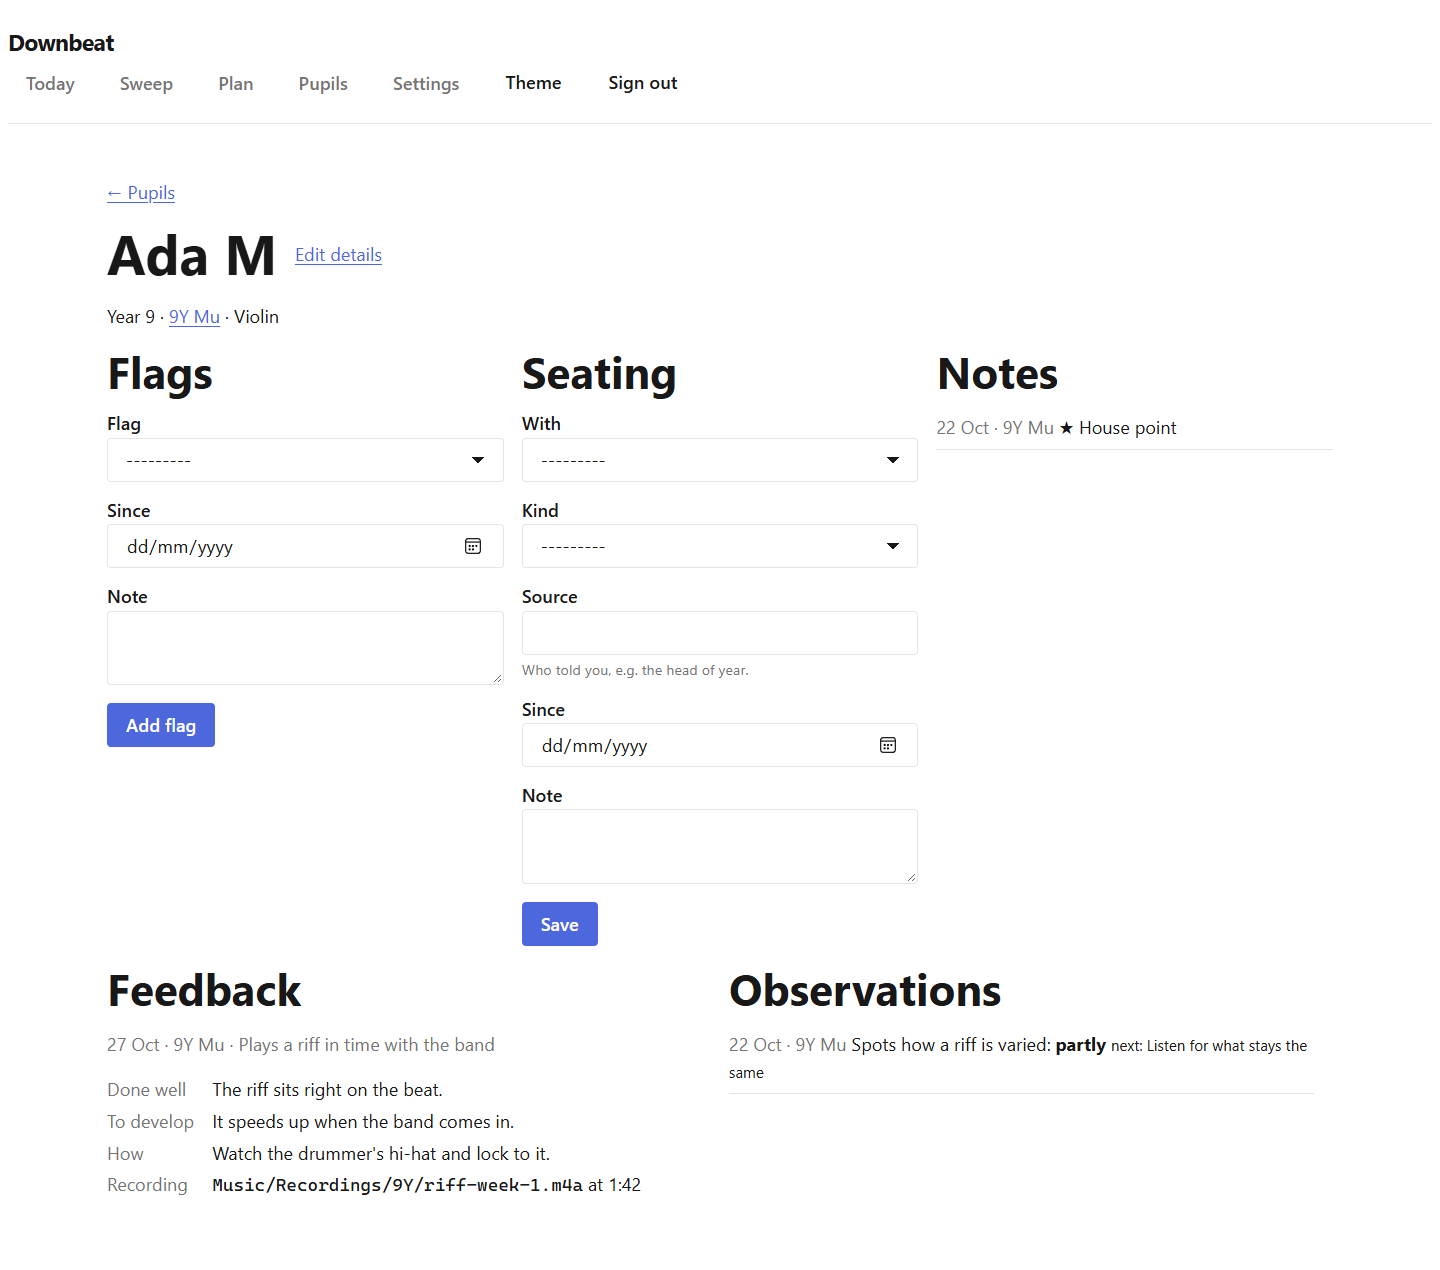
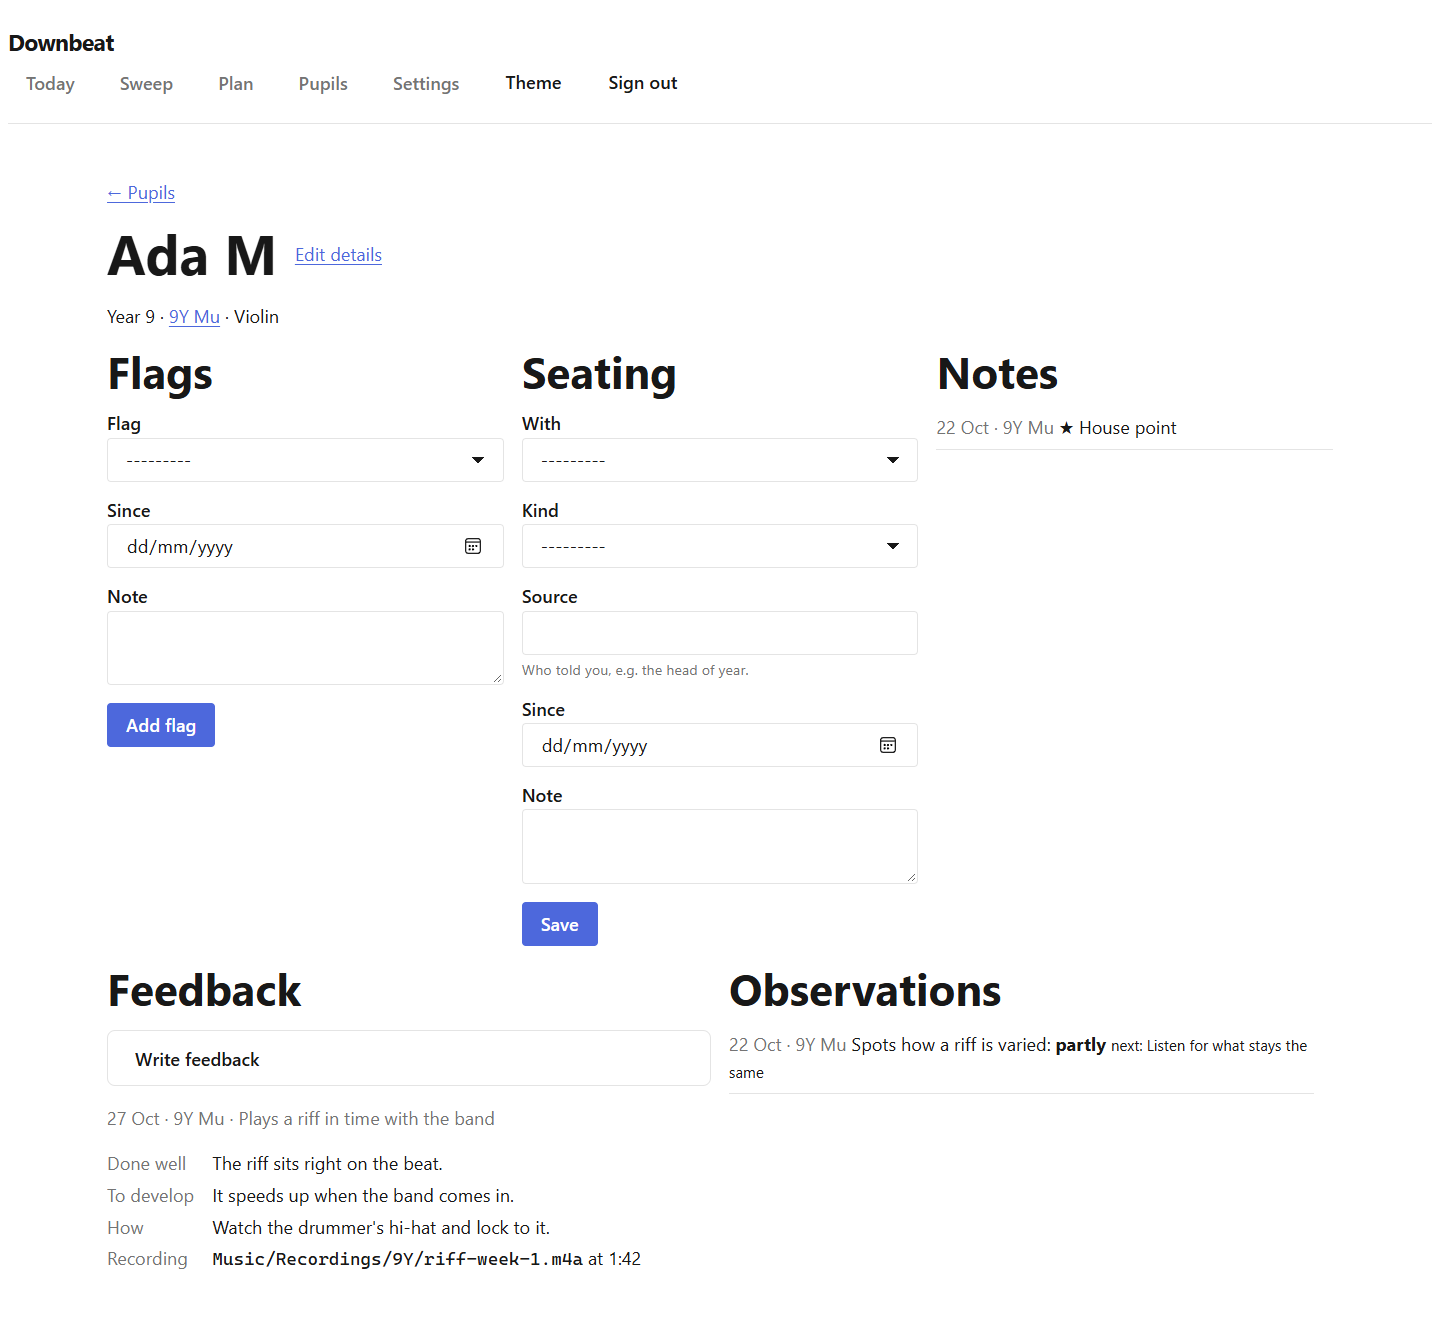
Let feedback be written whenever: from the pupil page and the room view's menu

diff --git a/templates/timetable/room_view.html b/templates/timetable/room_view.html
@@ -123,6 +123,7 @@ device's unsent captures applied on top, so it works the same with or without a 
     <div class="dropdown" data-align="end">
       <a class="dropdown__item" href="{% url 'projector' session.pk %}" target="_blank" rel="noopener">Projector view</a>
       <a class="dropdown__item" href="{% url 'cover_pdf' session.pk %}">Cover PDF</a>
+      <a class="dropdown__item" href="{% url 'session_feedback' session.pk %}">Feedback for this lesson</a>
       {% if lesson and lesson.unit.feedback_codes.exists %}<a class="dropdown__item" href="{% url 'codes_slide' lesson.unit.pk %}" target="_blank" rel="noopener">Feedback codes</a>{% endif %}
       <button type="button" class="dropdown__item" data-action="shortcuts">Keyboard shortcuts</button>
     </div>

diff --git a/templates/pupils/pupil.html b/templates/pupils/pupil.html
@@ -95,7 +95,17 @@
 
 <div class="switcher">
   <section class="flow">
-    <h2>Feedback</h2>
+    <h2 id="feedback">Feedback</h2>
+    {% if feedback_form %}
+    <details class="accordion"{% if feedback_open %} open{% endif %}>
+      <summary class="accordion__trigger">Write feedback</summary>
+      <form method="post" class="accordion__content flow">
+        {% csrf_token %}
+        {{ feedback_form }}
+        <button class="button" type="submit" name="add_feedback" data-variant="primary">Save feedback</button>
+      </form>
+    </details>
+    {% endif %}
     {% if feedback %}
     <ul class="flow" role="list">
       {% for f in feedback %}

diff --git a/assessment/forms.py b/assessment/forms.py
@@ -76,8 +76,18 @@ def parse_at(text):
     return int(minutes or 0) * 60 + int(seconds)
 
 
+class LessonChoiceField(forms.ModelChoiceField):
+    def label_from_instance(self, session):
+        return f"{session.date:%a} {session.date.day} {session.date:%b} {session.period} · {session.klass}" + (
+            f" · {session.lesson}" if session.lesson_id else "")
+
+
 class FeedbackForm(forms.Form):
-    """Feedback for one pupil or one group in a lesson. A recording only for pupils whose families agreed."""
+    """
+    Feedback for one pupil or one group, written whenever. From a lesson's page it asks who it's
+    for; from a pupil's page it asks which of their lessons it belongs to. A recording only for
+    pupils whose families agreed.
+    """
 
     who = forms.ChoiceField(label="For")
     component = forms.ModelChoiceField(queryset=None, required=False, label="Component (optional)")
@@ -89,11 +99,14 @@ class FeedbackForm(forms.Form):
     recording_at = forms.CharField(required=False, max_length=8, label="At (m:ss)",
                                    help_text="The moment the feedback is about, e.g. 1:42 for bar 9.")
 
-    def __init__(self, *args, session, **kwargs):
+    def __init__(self, *args, session=None, pupil=None, **kwargs):
         super().__init__(*args, **kwargs)
+        self.session, self.pupil = session, pupil
+        if pupil is not None:
+            self._for_pupil(pupil)
+            return
         from pupils.services import active_groups
 
-        self.session = session
         self.pupils = {str(p.pk): p for p in session.klass.pupils.all()}
         self.groups = {str(g.pk): g for g in active_groups(session.klass)}
         choices = [("", "Choose…"), ("Pupils", [(f"pupil:{pk}", str(p)) for pk, p in self.pupils.items()])]
@@ -102,11 +115,34 @@ class FeedbackForm(forms.Form):
         self.fields["who"].choices = choices
         self.fields["component"].queryset = session.lesson.unit.components.all() if session.lesson_id else Component.objects.none()
 
+    def _for_pupil(self, pupil):
+        """The pupil's lessons, newest first, the latest chosen; components from those lessons' units."""
+        from django.utils import timezone
+
+        from timetable.models import Session
+
+        lessons = (Session.objects.filter(klass__pupils=pupil, date__lte=timezone.localdate())
+                   .exclude(status=Session.CANCELLED).select_related("klass", "lesson").order_by("-date", "-period"))
+        del self.fields["who"]
+        self.fields = {"lesson": LessonChoiceField(queryset=lessons, label="Lesson", empty_label=None), **self.fields}
+        self.fields["lesson"].initial = lessons.first()
+        self.fields["component"].queryset = Component.objects.filter(unit__lessons__sessions__in=lessons).distinct()
+
     def clean(self):
         data = super().clean()
-        kind, _, pk = data.get("who", "").partition(":")
-        data["pupil"] = self.pupils.get(pk) if kind == "pupil" else None
-        data["group"] = self.groups.get(pk) if kind == "group" else None
+        if self.pupil is not None:
+            data["pupil"], data["group"] = self.pupil, None
+            lesson = data.get("lesson")
+            if lesson is None:
+                raise forms.ValidationError("Choose the lesson this feedback belongs to.")
+            self.session = lesson
+            component = data.get("component")
+            if component and (not lesson.lesson_id or component.unit_id != lesson.lesson.unit_id):
+                self.add_error("component", "Choose a component from that lesson's unit, or none.")
+        else:
+            kind, _, pk = data.get("who", "").partition(":")
+            data["pupil"] = self.pupils.get(pk) if kind == "pupil" else None
+            data["group"] = self.groups.get(pk) if kind == "group" else None
         if not any(data.get(part, "").strip() for part in ("done_well", "develop", "how")):
             raise forms.ValidationError("Write at least one of done well, to develop or how.")
         try:

diff --git a/assessment/test_feedback.py b/assessment/test_feedback.py
@@ -165,3 +165,32 @@ def test_self_and_peer_refuses_a_teacher_entry_or_a_stray_component(client, klas
     client.post(f"/pupils/class/{klass.pk}/self-peer/", {"session": lesson.pk, "component": riff.pk, "assessor": "teacher",
                                                         f"state-{pupils[0].pk}": "secure"})
     assert not Observation.objects.exists()
+
+
+# --- Written whenever ---
+
+def test_feedback_from_the_pupil_page_belongs_to_a_lesson_of_theirs(client, lesson, unit, pupils):
+    page = client.get(f"/pupils/{pupils[0].pk}/").content.decode()
+    assert "Write feedback" in page and "Mon 19 Oct P1" in page
+    riff = unit.components.get(order=0)
+    response = client.post(f"/pupils/{pupils[0].pk}/", {
+        "add_feedback": "", "feedback-lesson": lesson.pk, "feedback-component": riff.pk, "feedback-develop": "Steadier fills",
+    })
+    assert response.url == f"/pupils/{pupils[0].pk}/#feedback"
+    f = Feedback.objects.get()
+    assert (f.session, f.pupil, f.group, f.component) == (lesson, pupils[0], None, riff)
+
+
+def test_pupil_page_feedback_refuses_a_component_from_another_unit(client, lesson, pupils, klass, room):
+    other_unit = Unit.objects.create(scheme=Scheme.objects.create(name="Y7"), name="Other")
+    stray = Component.objects.create(unit=other_unit, order=0, text="Elsewhere", strand=Strand.objects.first(), next_step_default="x")
+    other = Session.objects.create(date=D, period="P2", klass=klass, room=room,
+                                   lesson=LessonPlan.objects.create(unit=other_unit, order=1, objective="Other"))
+    client.post(f"/pupils/{pupils[0].pk}/", {
+        "add_feedback": "", "feedback-lesson": lesson.pk, "feedback-component": stray.pk, "feedback-develop": "x",
+    })
+    assert not Feedback.objects.exists() and other.lesson.unit == stray.unit
+
+
+def test_the_room_menu_leads_to_the_lessons_feedback(client, lesson):
+    assert f"/sweep/{lesson.pk}/feedback/" in client.get(f"/room/{lesson.pk}/").content.decode()

diff --git a/pupils/views.py b/pupils/views.py
@@ -7,8 +7,10 @@ from django.contrib import messages
 from django.db import transaction
 from django.db.models import Count, ProtectedError, Q
 from django.shortcuts import get_object_or_404, redirect, render
+from django.urls import reverse
 from django.views.decorators.http import require_POST
 
+from assessment.forms import FeedbackForm
 from assessment.models import Feedback
 from timetable.models import Class, Pupil, SessionAttendance
 
@@ -42,6 +44,12 @@ def pupil_page(request, pk):
     pupil = get_object_or_404(Pupil, pk=pk)
     adding_flag = request.method == "POST" and "add_flag" in request.POST
     adding_relationship = request.method == "POST" and "add_relationship" in request.POST
+    adding_feedback = request.method == "POST" and "add_feedback" in request.POST
+    feedback_form = FeedbackForm(request.POST if adding_feedback else None, pupil=pupil, prefix="feedback")
+    if adding_feedback and feedback_form.is_valid():
+        feedback_form.save()
+        messages.success(request, "Feedback saved.")
+        return redirect(f"{reverse('pupil_page', args=[pupil.pk])}#feedback")
     form = PupilFlagForm(request.POST if adding_flag else None, pupil=pupil)
     relationship_form = RelationshipForm(request.POST if adding_relationship else None, pupil=pupil)
     if adding_flag and form.is_valid():
@@ -68,6 +76,8 @@ def pupil_page(request, pk):
         "relationship_form": relationship_form if relationship_form.fields["other"].queryset.exists() else None,
         "notes": notes,
         "feedback": feedback,
+        "feedback_form": feedback_form if feedback_form.fields["lesson"].queryset.exists() else None,
+        "feedback_open": adding_feedback,
         "observations": observations,
         "loans": pupil.loans.filter(returned_at__isnull=True).select_related("item"),
     })

diff --git a/docs/TESTING.md b/docs/TESTING.md
@@ -10,7 +10,7 @@ How Downbeat is tested, how to run the tests, and what each part of the suite co
 .venv\Scripts\ruff check .
 ```
 
-The suite runs in about ten seconds: 366 tests pass and 3 are skipped (see [Skipped tests](#skipped-tests)). `pytest -q path/to/file.py -k name` runs one file or test.
+The suite runs in about ten seconds: 369 tests pass and 3 are skipped (see [Skipped tests](#skipped-tests)). `pytest -q path/to/file.py -k name` runs one file or test.
 
 GitHub Actions (`.github/workflows/tests.yml`) runs on every push and pull request. It checks out Downbeat and LooseLeaf-UI side by side, then runs:
 
@@ -80,7 +80,7 @@ Conventions:
 | `plans/test_prep.py` | 6 | Prep generated from resources and actions, ticks kept, manual items |
 | `assessment/tests.py` | 9 | Strands and bands, components and codes, criteria file round trip and refusal, duplicating a unit |
 | `assessment/test_observations.py` | 7 | Observations through sync, rule 4 in sync and in the database, backwards states, sweep bin |
-| `assessment/test_feedback.py` | 14 | Feedback for a pupil or a group, its three parts, recordings only with permission (every member for a group), the m:ss moment, codes as a slide with no pupil in it, the class-by-component view (latest state, by assessor, nothing added up), self and peer in one go with the next step attached |
+| `assessment/test_feedback.py` | 17 | Feedback for a pupil or a group, written from a lesson or a pupil's page, its three parts, recordings only with permission (every member for a group), the m:ss moment, codes as a slide with no pupil in it, the class-by-component view (latest state, by assessor, nothing added up), self and peer in one go with the next step attached |
 | `assessment/test_checks.py` | 18 | Hinge checks: misconception-tagged wrong answers, the bank and duplication, planned-or-asked constraint, decisions through sync (minutes in, idempotent, last write wins, two devices, taking back), the greyed button, the sweep's judgement, pupils' answers opt-in and only with a decision (rule 3) |
 
 ## Traceability to the "Done when" tests

diff --git a/docs/DEVLOG.md b/docs/DEVLOG.md
@@ -116,6 +116,8 @@ Each step ends with ruff and the full test suite passing locally and in CI, and 
 
 **5.4 checked.** The screenshot tool loaded every new page in Edge on the demo school without a script error, and each was checked by eye: the lesson's feedback page with a recording moment, the codes slide with nothing about any pupil, the Components tab in greyscale words, the self-and-peer table, and the pupil page's feedback and observations. Saving feedback, the recording permission (pupil and group), self- and peer-assessment and the latest-state rule are covered by the tests rather than clicked through in the browser.
 
+**5.4 changed on review.** The teacher ruled that feedback can be written whenever, not only from the sweep: the pupil page gained a "Write feedback" form that asks which of the pupil's lessons it belongs to, and the room view's ⋯ menu gained "Feedback for this lesson". The room view itself still opens no form (rule 1).
+
 **5.4 went wrong, put right.**
 - The codes slide's type was sized for a laptop, not the back of a classroom; it is now the largest step in the scale.
 - The demo's class-by-component table was nearly empty with six observations a lesson; the demo now makes ten, so the page shows what it is for.

diff --git a/docs/DECISIONS.md b/docs/DECISIONS.md
@@ -231,3 +231,5 @@ Choices the spec docs don't settle, made during the build. Newest at the bottom 
 **28 Oct 2026. The pupil page shows feedback and observations.** Below flags, seating and notes, the pupil page lists the pupil's feedback (their own and their groups', newest first, with any recording and moment) and their observations (component, state, next step, and whether it was self or peer). The ipsative timeline comes with recordings in 5.5.
 
 **28 Oct 2026. The class's Pupils tabs are one partial.** List, Missing out, Components and Self and peer share `pupils/_class_tabs.html`, so a new tab is added in one place.
+
+**28 Oct 2026. Feedback can be written whenever.** The teacher's ruling: only the teacher sees the app, so feedback isn't tied to the sweep. It is written from three places: a lesson's feedback page (reached from its sweep or from the room view's ⋯ menu), and the pupil page, where it asks which of the pupil's lessons it belongs to (the latest by default) and offers that lesson's unit's components. The room view itself still opens no feedback form, since rule 1 says an in-lesson capture never opens a form; the ⋯ menu item goes to the desk page, so nothing on the room screen changes.

diff --git a/docs/SCREENSHOTS.md b/docs/SCREENSHOTS.md
@@ -102,7 +102,7 @@ The bar's "Next: P5 · 10 GCSE ›" button is in every room view shot above; N d
 
 ![Prep for the next teaching day](screenshots/15-prep.png)
 
-**Feedback for a lesson**, from "Feedback for this lesson" at the top of its sweep (US-62). Done well, to develop and how, for a pupil or a group, optionally against a component. A recording is a path and a moment in it ("at 1:42"), and only for pupils whose families agreed.
+**Feedback for a lesson**, from "Feedback for this lesson" at the top of its sweep or in the room view's ⋯ menu; the pupil page has its own "Write feedback" too (US-62). Done well, to develop and how, for a pupil or a group, optionally against a component. A recording is a path and a moment in it ("at 1:42"), and only for pupils whose families agreed.
 
 ![A lesson's feedback page](screenshots/33-lesson-feedback.png)
 

diff --git a/docs/USER_STORIES.md b/docs/USER_STORIES.md
@@ -765,6 +765,11 @@ Scenario: No permission, no recording
 Scenario: For a group
   When I write feedback for "Band 1"
   Then it shows on each member's pupil page, labelled with the group
+
+Scenario: Whenever, from the pupil page
+  Given I am on Ada M's pupil page
+  When I open "Write feedback", keep her latest lesson and write "To develop: steadier fills"
+  Then the feedback belongs to that lesson and shows on her page
 ```
 
 ### US-63 The class-by-component heat view
